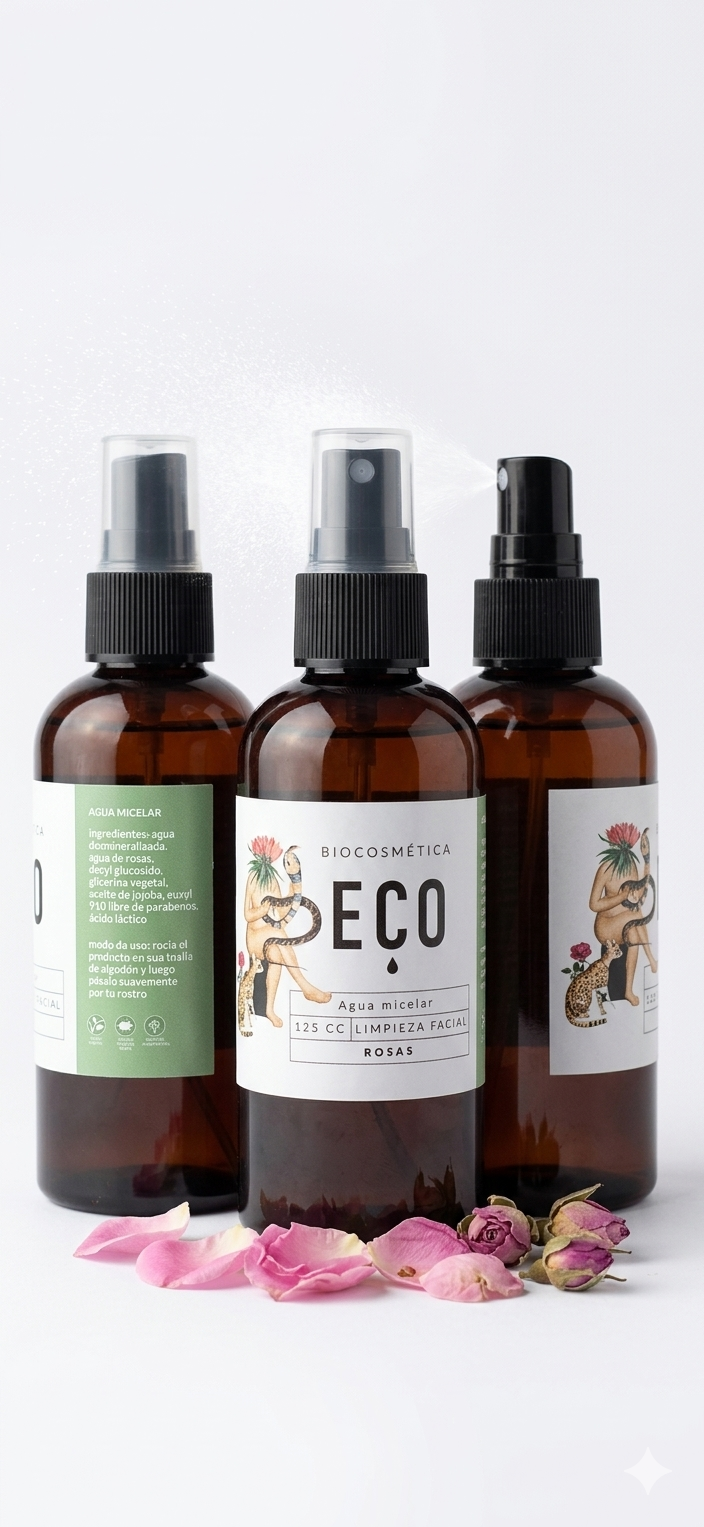
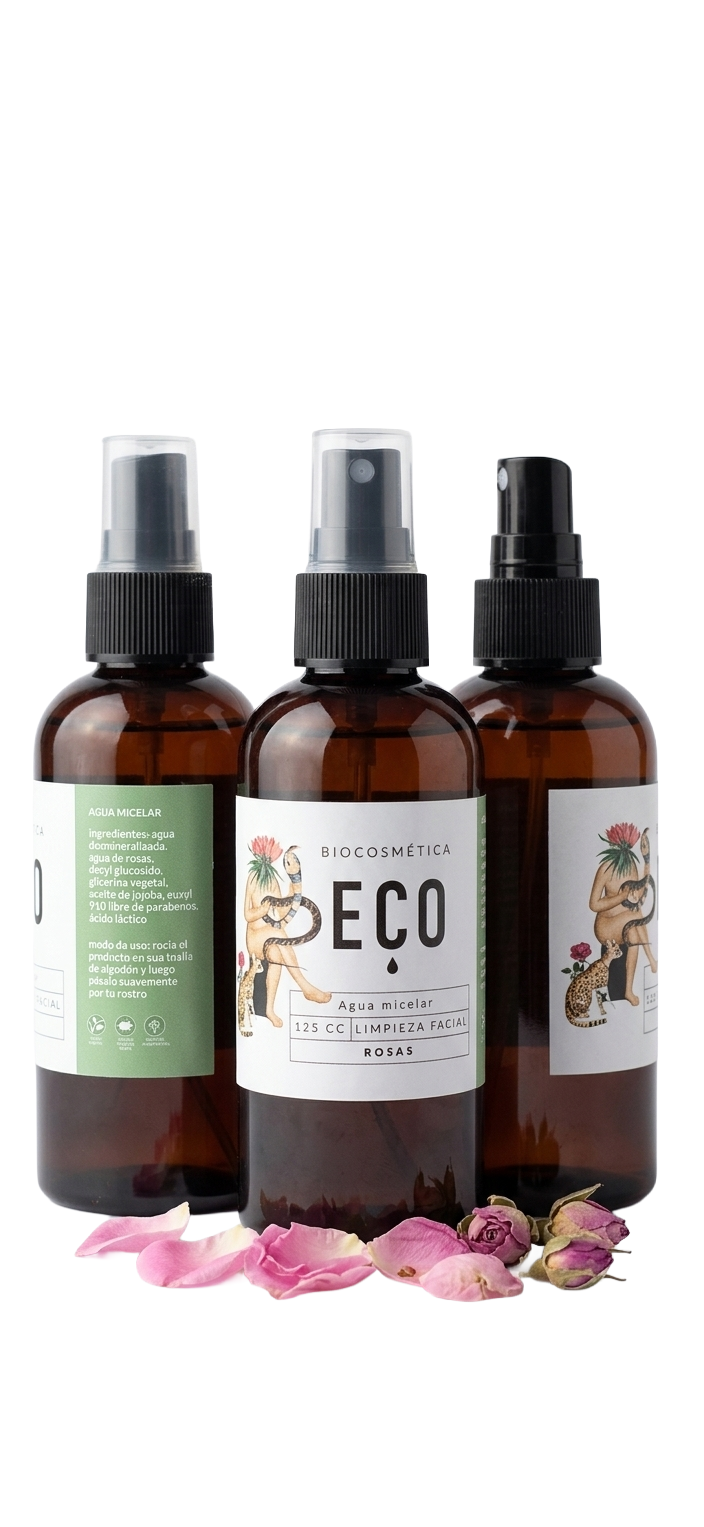
ajuste hero

Changed region(s): [[0.6875, 0.7079, 1.0, 0.8618], [0.25, 0.7695, 0.625, 0.8618], [0.0625, 0.7695, 0.1875, 0.831]]

diff --git a/index.html b/index.html
@@ -95,7 +95,8 @@
                 <div class="absolute -top-8 -left-8 w-72 h-72 bg-eco-green/10 rounded-full blur-3xl"></div>
                 <img src="images/hero-agua-micelar.png"
                      alt="Agua Micelar ECO Biocosmética"
-                     class="relative z-10 w-full max-w-md mx-auto drop-shadow-2xl">
+                     class="relative z-10 w-full max-w-md mx-auto"
+                     style="mix-blend-mode: multiply;">
             </div>
         </div>
     </section>
